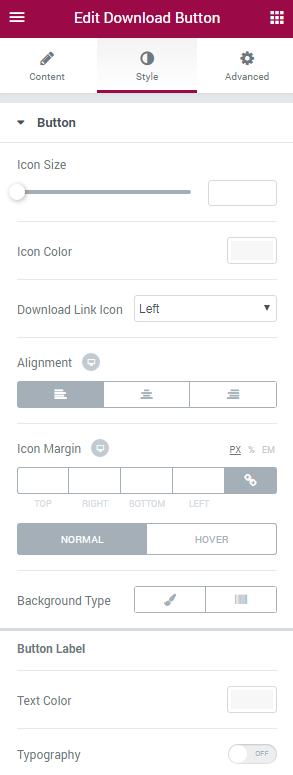
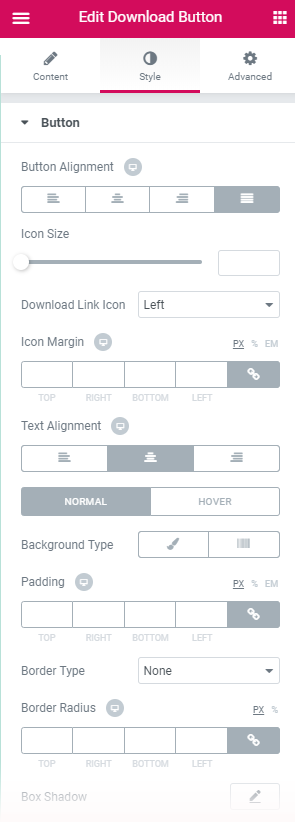
jetwoobuilder&jetelements

diff --git a/sections/jetelements-modules/en/download-button.php b/sections/jetelements-modules/en/download-button.php
@@ -39,42 +39,28 @@ Download Button widget will assist You in creating versatile buttons that will a
 <h6>Button</h6>
 
 <ul class="marked-list">
+<p><li><b>Button Alignment</b> — select the centered, left, right or justified alignment of the button.</li></p>
 <p><li><b>Icon Size</b> — here you can set the necessary icon size to use it for the button.</li></p>
-<p><li><b>Icon Color</b> — use color picker tool to choose the needed icon color.</li></p>
 <p><li><b>Download Link Icon</b> — use the dropdown menu to specify the position of the download link.</li></p>
-<p><li><b>Alignment</b> — select the centered, left or right alignment of the button.</li></p>
 <p><li><b>Icon Margin</b> — here you can define the preferable margin values for the button icon.</li></p>
+<p><li><b>Text Alignment</b> — select the centered, left or right alignment of the text.</li></p>
+<p><li><b>Background Type</b> — in this block you can choose, whether you want to use classic or gradient type for the button. The customization options vary for each type. </li></p>
+<p><li><b>Padding</b> — here you can set the preferable custom padding for the whole column where the widget is displayed. Fill in the values for the top, bottom, right and left padding in pixels to apply your custom padding. </li></p>
+<p><li><b>Border Type</b> —  here you can define the type of the border you need to use for the element.</li></p>
+<p><li><b>Border Radius</b> - here you can set the border radius for the download button.</li></p>
+<p><li><b>Box Shadow</b> - enable this option if you want to access the shadow advanced settings for this module, and need to apply shadow for it.</li></p>
 
+
+<h6>Button Icon</h6>
 <ul class="marked-list">
-<p><li><b>Background Type</b> — in this block you can choose, whether you want to use classic or gradient type for the button. The customization options vary for each type. </li></p></ul>
 
-<h6>Classic Background Type</h6>
-
-
-<ul class="marked-list">
-<p><li><b>Color</b> — here you can set background color for the button using color picker tool.</li></p>
-<p><li><b>Image</b> — here you can choose the image you want to use as a background. Select the image from the media library or upload it to define it as a background in this block. When the image is uploaded, you’ll be able to define its position, alignment, turn on repeat and set the necessary size.</li></p>
-<p><li><b>Opacity</b> — here you can define the value for the opacity of the background. </li></p></ul>
-
-<h6>Gradient Background Type</h6>
-
-
-<ul class="marked-list">
-<p><li><b>Color</b> — here you can set background color for the button using color picker tool.</li></p>
-<p><li><b>Location</b> — here you can define the proportion for the first color in the gradient background. </li></p>
-<p><li><b>Second Color</b> — here you can set the second color to use in the gradient background. </li></p>
-<p><li><b>Location</b> — here you can define the proportion for the second color in the gradient background. </li></p>
-<p><li><b>Type</b> — define, if you want to use linear or radial type of the gradient. </li></p>
-<p><li><b>Angle</b> — in this block you can set the angle for the gradient (in degrees). </li></p>
-<p><li><b>Opacity</b> — here you can change background opacity, where 1 is 100% opacity, and 0 — is 0% opacity. </li></p></ul>
-
+<p><li><b>Icon Color</b> — use color picker tool to choose the needed icon color.</li></p></ul>
 
 <h6>Button Label</h6>
 
-
 <ul class="marked-list">
-<p><li><b>Text Color</b> — here you can select the preferable color of the button label text using color picker. </li></p>
-<p><li><b>Typography</b> — turn the option on to view the typography settings.</li></p>
+<p><li><b>Text Color</b> — here you can select the preferable color of the button label text using color picker.</li></p>
+<p><li><b>Typography</b> — turn the option on to view the typography settings.
 <ul class="marked-list">
 <p><li><b>Size</b> — define the font size of the button label. </li></p>
 <p><li><b>Family</b> — here you can set the font family for the button label. </li></p>
@@ -85,12 +71,9 @@ Download Button widget will assist You in creating versatile buttons that will a
 <p><li><b>Letter Spacing</b> — here you can set the space between letters. </li></p></ul></li></p></ul>
 
 
+
 <h6>Button Sub Label</h6>
 
 <ul class="marked-list">
 <p><li><b>Text Color</b> — here you can select the preferable color of the button sub  label text using color picker. </li></p>
-<p><li><b>Typography</b> — turn the option on to view the typography settings. They are similar to those in the Button Label block.</li>
-</ul>
-
-
-<p><li><b>Padding</b> — here you can set the preferable custom padding for the whole column where the widget is displayed. Fill in the values for the top, bottom, right and left padding in pixels to apply your custom padding. </li></p></ul>
+<p><li><b>Typography</b> — turn the option on to view the typography settings. They are similar to those in the Button Label block.</li></ul>

diff --git a/sections/jetwoobuilder-global-widgets/en/taxonomy-tiles.php b/sections/jetwoobuilder-global-widgets/en/taxonomy-tiles.php
@@ -78,21 +78,20 @@ This widget allows to display the taxonomy categories or tags for the WooCommerc
 <h6>Content</h6>
 
 <ul class="marked-list">
-	<li><p><b>Background Color</b> - here you can set the background color for the content on hover.</p></li>
-
-
-	<li><p><b>Border Color</b> - here you can set the color to apply for the content on hover.</p></li></ul>
+	<li><p><b>Background Color</b> - here you can set the background color for the content on hover.</p></li></ul>
 
 <h6>Title</h6>
 
 <ul class="marked-list">
-	<li><p><b>Color</b> - here you can specify the color to apply for the title on hover.</p></li></ul>
+	<li><p><b>Color</b> - here you can specify the color to apply for the title on hover.</p></li>
+	<li><p><b>Text Decoration</b> - here you can decorate the text.</p></li></ul>
 
 
 <h6>Description</h6>
 
 <ul class="marked-list">
-	<li><p><b>Color</b> - here you can specify the color to apply for the description.</p></li></ul>
+	<li><p><b>Color</b> - here you can specify the color to apply for the description.</p></li>
+	<li><p><b>Text Decoration</b> - here you can decorate the description.</p></li></ul>
 
 
 <h6>Count</h6>
@@ -102,7 +101,8 @@ This widget allows to display the taxonomy categories or tags for the WooCommerc
 
 	<li><p><b>Background Color</b> - here you can set the color to apply for the count background on hover.</p></li>
 
-	<li><p><b>Border Color</b> - here you can set the needed border color to use for the box count on hover.</p></li></ul>
+	<li><p><b>Border Color</b> - here you can set the needed border color to use for the box count on hover.</p></li>
+	<li><p><b>Text Decoration</b> - here you can decorate the count.</p></li></ul>
 
 <h6>Content</h6>
 

diff --git a/sections/jetelements-modules/en/images-layout.php b/sections/jetelements-modules/en/images-layout.php
@@ -35,11 +35,13 @@ Images Layout widget displays images using different eye-catching layout types, 
 
 <ul class="marked-list">
 <p><li><b>Image</b> — click on the Image area to select the image from the Media Library or upload one from your hard drive.</li></p>
+<p><li><b>Image Size</b> — here you can select the size of the images.</li></p>
 <p><li><b>Icon</b> — here you can set the icon for the image.</li></p>
 <p><li><b>Title</b> — here you can input the title of the image.</li></p>
-<p><li><b>Title</b> — in this field you need to provide the image description.</li></p>
+<p><li><b>Description</b> — in this field you need to provide the image description.</li></p>
 <p><li><b>Link type</b> — here you need to specify if you want the link to be external or lightboxed.</li></p>
-<p><li><b>External Link</b> — here you can provide the URL address of the external link.</li></p></ul>
+<p><li><b>External Link</b> — here you can provide the URL address of the external link.</li></p>
+<p><li><b>Open external link in new window</b> — enable this option if you want the link opens in a new window.</li></p></ul>
 
 <h4>Style</h4>
 

diff --git a/sections/jetwoobuilder-woo-settings/en/__description.php b/sections/jetwoobuilder-woo-settings/en/__description.php
@@ -8,6 +8,16 @@
 <p><li>In order to access the <b>WooCommerce JetWooBuilder Settings</b>, please, navigate to <b>WooCommerce > Settings > Jet Woo Builder</b> tab in WordPress Dashboard. Here you can see the list of options available for JetWooBuilder templates.
 Let’s take a closer look at them.
 
+<p><b>General</b></p>
+
+
+      <figure class="img-polaroid">
+        <img src="projects/<?php echo $project;?>/img/upd/woo-settings7.png">
+    </figure>
+
+<ul class="marked-list">
+<li><p><b>Archive Widgets Render Method</b> - here you need to select the widgets render for archive product and archive category templates.</p></li>
+
 <p><b>Shop Page</b></p>
 
 

diff --git a/sections/jetelements-modules/en/portfolio.php b/sections/jetelements-modules/en/portfolio.php
@@ -42,6 +42,9 @@ Portfolio widget allows displaying Portfolio in the form of eye-catching layouts
 
 <p><li><b>Image</b> - select an image from the media library or use upload it from your hard drive in order to apply it to the portfolio item. </li></p>
 
+<p><li><b>Image Size</b> - here you can select the certain size of the image. </li></p>
+
+
 <p><li><b>Title</b> - input the title of the portfolio item you’re currently setting. </li></p>
 
 <p><li><b>Description</b> - here you need to input the description for the portfolio item.</li></p>

diff --git a/sections/jetwoobuilder-single-product-widgets/en/single-sale-badge.php b/sections/jetwoobuilder-single-product-widgets/en/single-sale-badge.php
@@ -38,4 +38,6 @@ This widget makes it simple to add the <b>Sale badge</b> to the product’s page
 	<li><p><b>Box Shadow</b> - here you can apply the shadow to use for the badge.</p></li>
 
 	<li><p><b>Padding</b> - here you can apply custom padding in order to use it for the element.</p></li>
+	
+	<li><p><b>Alignment</b> - in this block you can select the alignment to use for the sale badge (right, left, center).</p></li>
 </ul>
